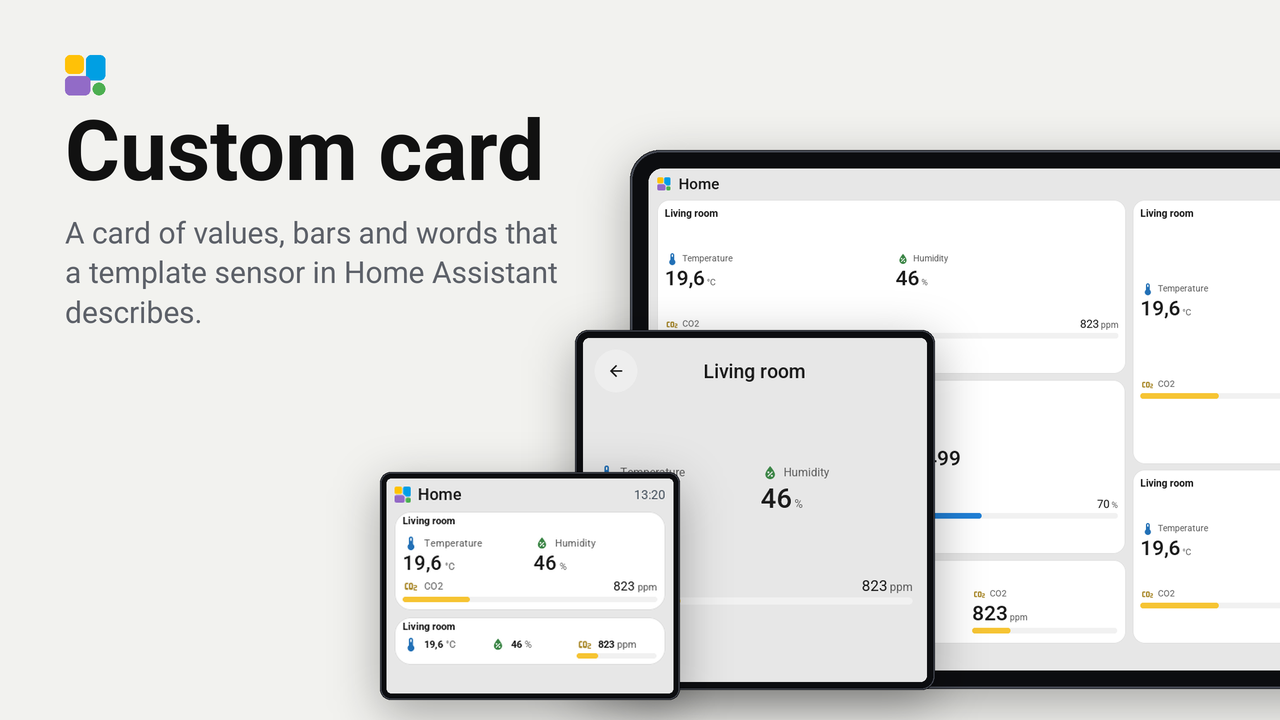
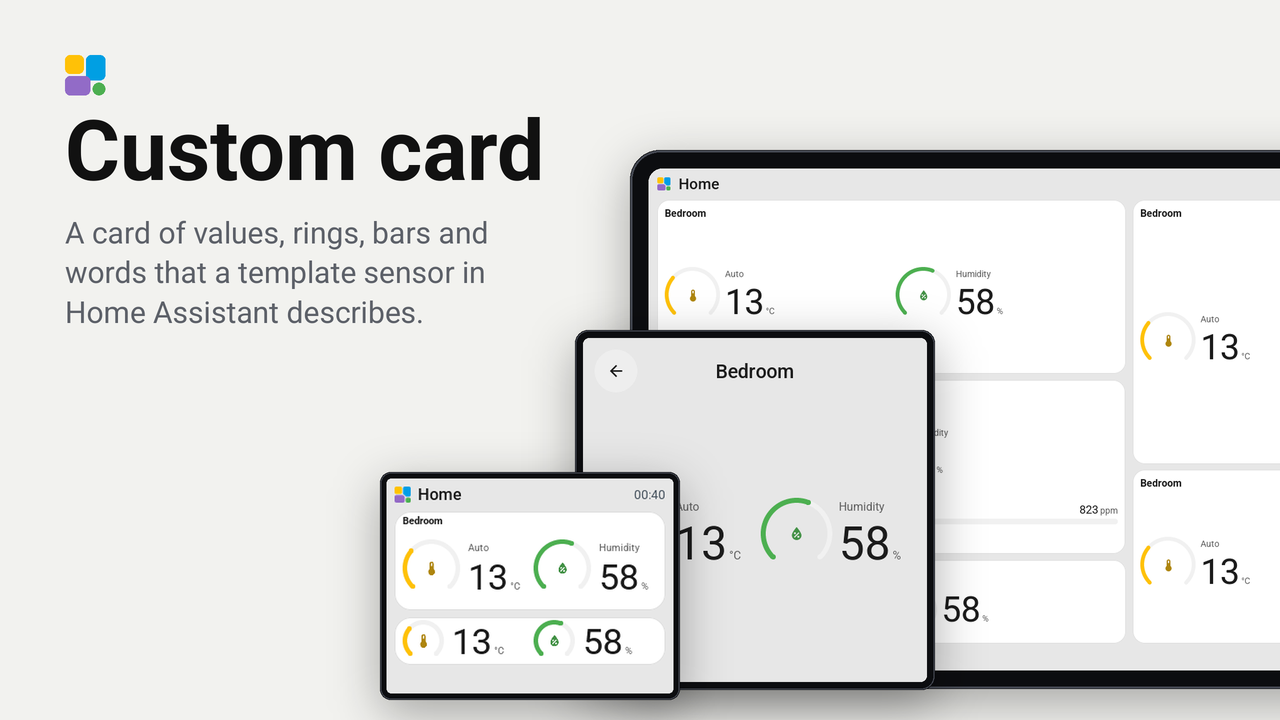
0.6.0: a new part, arc: a value with a ring before it, filled from its lowest to its highest value

diff --git a/components/custom_card/custom_card.cpp b/components/custom_card/custom_card.cpp
@@ -19,10 +19,11 @@ namespace ui = tessera::ui;
 //
 //   value|<value>|<unit>|<label>|<colour>|<icon>
 //   bar|<value>|<unit>|<label>|<colour>|<icon>|<min>|<max>
+//   arc|<value>|<unit>|<label>|<colour>|<icon>|<min>|<max>
 //   text|<words>|||<colour>|<icon>
 //
 // Fields at the end may be left out. A colour is one of the key colours of theme.h (red, orange, yellow, green, mint,
-// blue, purple, pink, gray): it paints the part's icon (a dot where it has none) and its bar, never its words. The
+// blue, purple, pink, gray): it paints the part's icon (a dot where it has none), its bar and its arc, never its words. The
 // colours that mean something are Tessera's tones (plugin API 0.9), readable on the card in both looks: green is GOOD,
 // yellow and orange BUSY, red ALERT, blue ACCENT; the others keep their key colour. An icon is a name of Tessera's set
 // (icons.h).
@@ -63,7 +64,9 @@ static uint32_t icon_colour(uint32_t colour) { return readable(theme::icon(colou
 static constexpr int MAX_PARTS = 8;
 static constexpr int MAX_IN_ROW = 4;
 
-enum class Kind : uint8_t { VALUE, BAR, TEXT };
+// ARC: a value with a ring open at the bottom before it (three quarters of a circle), filled from min to max, the
+// part's icon in its middle.
+enum class Kind : uint8_t { VALUE, BAR, ARC, TEXT };
 
 struct Part {
   Kind kind = Kind::VALUE;
@@ -118,6 +121,7 @@ static bool parse(const std::string &line, Part *part) {
   auto at = [&](size_t i) { return i < f.size() ? f[i] : std::string(); };
   if (f[0] == "value") part->kind = Kind::VALUE;
   else if (f[0] == "bar") part->kind = Kind::BAR;
+  else if (f[0] == "arc") part->kind = Kind::ARC;
   else if (f[0] == "text") part->kind = Kind::TEXT;
   else return false;
   part->value = at(1);
@@ -130,6 +134,13 @@ static bool parse(const std::string &line, Part *part) {
   if (number_of(at(6), &n)) part->min = n;
   if (number_of(at(7), &n)) part->max = n;
   return true;
+}
+
+// How much of a bar or an arc is filled, 0 to 1: nothing for a value that is no number.
+static float share_of(const Part &part) {
+  float value;
+  if (!number_of(part.value, &value) || part.max <= part.min) return 0;
+  return std::min(1.0f, std::max(0.0f, (value - part.min) / (part.max - part.min)));
 }
 
 // ---- The tile ----
@@ -164,6 +175,18 @@ class Drawing {
       s.unit = ui::label(parent, Font::BODY, theme::MUTED);
       s.track = ui::block(parent, theme::TRACK);
       s.fill = ui::block(s.track, theme::ACCENT);
+      // A ring that only shows: no knob, no touch (a tap is the tile's), open at the bottom, a tenth of a percent fine.
+      s.arc = lv_arc_create(parent);
+      lv_obj_remove_style(s.arc, nullptr, LV_PART_KNOB);
+      lv_obj_remove_flag(s.arc, LV_OBJ_FLAG_CLICKABLE);
+      lv_obj_set_style_pad_all(s.arc, 0, 0);
+      lv_obj_set_style_bg_opa(s.arc, LV_OPA_TRANSP, 0);
+      lv_obj_set_style_border_width(s.arc, 0, 0);
+      lv_obj_set_style_arc_rounded(s.arc, true, LV_PART_MAIN);
+      lv_obj_set_style_arc_rounded(s.arc, true, LV_PART_INDICATOR);
+      lv_arc_set_rotation(s.arc, 135);
+      lv_arc_set_bg_angles(s.arc, 0, 270);
+      lv_arc_set_range(s.arc, 0, 1000);
     }
     hide_all();
   }
@@ -219,26 +242,30 @@ class Drawing {
       ui::set_color(s.unit, theme::MUTED);
       ui::set_color(s.value, theme::INK);
       lv_obj_set_style_bg_color(s.track, ui::color(theme::TRACK), 0);
+      lv_obj_set_style_arc_color(s.arc, ui::color(theme::TRACK), LV_PART_MAIN);
       if (tone != Tone::NORMAL) {
         // The tone's colour; on the icon darker still where it would not read on the card (BUSY's amber on white).
         const uint32_t toned = lv_color_to_u32(ui::tone_color(tone, theme::MUTED));  // 0xFFRRGGBB: the alpha byte is ignored
         lv_obj_set_style_text_color(s.icon, theme::rgb(readable(toned)), 0);
         ui::set_fill(s.dot, tone, theme::ACCENT);
         ui::set_fill(s.fill, tone, theme::ACCENT);
+        lv_obj_set_style_arc_color(s.arc, ui::tone_color(tone, theme::ACCENT), LV_PART_INDICATOR);
       } else if (own) {
         lv_obj_set_style_text_color(s.icon, theme::rgb(icon_colour(own)), 0);
         lv_obj_set_style_bg_color(s.dot, theme::rgb(own), 0);
         lv_obj_set_style_bg_color(s.fill, theme::rgb(own), 0);
+        lv_obj_set_style_arc_color(s.arc, theme::rgb(own), LV_PART_INDICATOR);
       } else {
         ui::set_color(s.icon, theme::MUTED);
         lv_obj_set_style_bg_color(s.fill, ui::color(theme::ACCENT), 0);
+        lv_obj_set_style_arc_color(s.arc, ui::color(theme::ACCENT), LV_PART_INDICATOR);
       }
     }
   }
 
  private:
   struct Slot {
-    lv_obj_t *icon{}, *dot{}, *label{}, *value{}, *unit{}, *track{}, *fill{};
+    lv_obj_t *icon{}, *dot{}, *label{}, *value{}, *unit{}, *track{}, *fill{}, *arc{};
   };
   // Parts side by side in columns, or a bar or a text alone across the width (`across`: its words left, its value
   // right, the bar under them).
@@ -256,14 +283,15 @@ class Drawing {
     show(head_, false);
     show(note_, false);
     for (Slot &s : slots_)
-      for (lv_obj_t *obj : {s.icon, s.dot, s.label, s.value, s.unit, s.track}) show(obj, false);
+      for (lv_obj_t *obj : {s.icon, s.dot, s.label, s.value, s.unit, s.track, s.arc}) show(obj, false);
   }
 
-  // Stacked: values that follow each other side by side (at most `in_row`), a bar and a text alone across the width.
+  // Stacked: values and arcs that follow each other side by side (at most `in_row`), a bar and a text alone across the
+  // width.
   std::vector<Line> stacked(int in_row = MAX_IN_ROW) const {
     std::vector<Line> out;
     for (int i = 0; i < (int) parts_.size(); ++i) {
-      const bool value = parts_[i].kind == Kind::VALUE;
+      const bool value = parts_[i].kind == Kind::VALUE || parts_[i].kind == Kind::ARC;
       if (value && !out.empty() && !out.back().across && out.back().count < in_row)
         ++out.back().count;
       else
@@ -307,6 +335,13 @@ class Drawing {
   int gap() const { return ui::px(ui::large() ? 8 : 4); }
   int column_gap() const { return ui::px(ui::large() ? 16 : 8); }
   int column_width(int count) const { return (width_ - (count - 1) * column_gap()) / count; }
+  int arc_thickness() const { return ui::px(ui::large() ? 7 : 5); }
+  // An arc is as tall as the words and the value beside it, and never smaller than its icon inside the ring.
+  int arc_size(int text_h) const {
+    return std::max(text_h, ui::line_height(Font::ICON_SMALL) + 2 * (arc_thickness() + ui::px(4)));
+  }
+  // The words and the value beside an arc, at its right.
+  int arc_text_x(int d) const { return d + ui::px(8); }
 
   // A part's mark: its icon, or a dot in its colour where it has no icon, or nothing.
   bool has_mark(const Part &part) const { return part.icon || part.colour; }
@@ -338,6 +373,7 @@ class Drawing {
       switch (parts_[i].kind) {
         case Kind::VALUE: h = std::max(h, words + ui::line_height(face)); break;
         case Kind::BAR: h = std::max(h, words + ui::line_height(face) + ui::px(4) + bar_thickness()); break;
+        case Kind::ARC: h = std::max(h, arc_size(words + ui::line_height(face))); break;
         default: h = std::max(h, text_row(parts_[i], face));
       }
     }
@@ -355,6 +391,14 @@ class Drawing {
           // A text beside other parts (a flat tile) has its words whole where another arrangement allows it.
           if (whole_texts_ && line.count > 1 && mark_width(part, Font::ICON_SMALL) + (has_mark(part) ? ui::px(6) : 0) +
                                         ui::text_width(part.value, words_face(face)) > column)
+            return false;
+          continue;
+        }
+        if (part.kind == Kind::ARC) {
+          // Its mark is in the ring: the ring, then the value.
+          const int words = labels && has_words(line) ? words_row() : 0;
+          if (arc_text_x(arc_size(words + ui::line_height(face))) + ui::text_width(shape(part.value), face) +
+                  unit_width(part) > column)
             return false;
           continue;
         }
@@ -387,7 +431,13 @@ class Drawing {
       show(note_, true);
       return;
     }
-    const std::vector<Line> arrangements[] = {side_by_side(), stacked()};
+    // An arc takes room beside its value: where arcs are, the values two to a row and one also compete for the largest
+    // face, so a narrow tile stacks its rings instead of shrinking them all into one row.
+    std::vector<std::vector<Line>> arrangements = {side_by_side(), stacked()};
+    if (std::any_of(parts_.begin(), parts_.end(), [](const Part &part) { return part.kind == Kind::ARC; })) {
+      arrangements.push_back(stacked(2));
+      arrangements.push_back(stacked(1));
+    }
     const bool named = !shown_name_.empty();
     struct Try { bool head, labels; };
     Font face = Font::BODY;
@@ -520,6 +570,18 @@ class Drawing {
     }
   }
 
+  // An arc `d` wide at (x, y), filled from min to max, the part's icon in the middle of the ring.
+  void place_arc(Slot &s, const Part &part, int x, int y, int d) {
+    const int thick = arc_thickness();
+    lv_obj_set_size(s.arc, d, d);
+    lv_obj_set_pos(s.arc, x, y);
+    lv_obj_set_style_arc_width(s.arc, thick, LV_PART_MAIN);
+    lv_obj_set_style_arc_width(s.arc, thick, LV_PART_INDICATOR);
+    lv_arc_set_value(s.arc, (int32_t) std::lround(share_of(part) * 1000));
+    show(s.arc, true);
+    if (part.icon) place_mark(s, part, x + (d - mark_width(part, Font::ICON_SMALL)) / 2, y, d, Font::ICON_SMALL);
+  }
+
   // A bar `width` wide at (x, y), filled from min to max.
   void place_bar(Slot &s, const Part &part, int x, int y, int width) {
     const int thick = bar_thickness();
@@ -528,9 +590,7 @@ class Drawing {
     lv_obj_set_style_radius(s.track, thick / 2, 0);
     lv_obj_set_style_radius(s.fill, thick / 2, 0);
     show(s.track, true);
-    float value, share = 0;
-    if (number_of(part.value, &value) && part.max > part.min)
-      share = std::min(1.0f, std::max(0.0f, (value - part.min) / (part.max - part.min)));
+    const float share = share_of(part);
     const int filled = share > 0 ? std::max(thick, (int) std::lround(share * width)) : 0;
     lv_obj_set_size(s.fill, filled, thick);
     lv_obj_set_pos(s.fill, 0, 0);
@@ -564,6 +624,23 @@ class Drawing {
       if (part.kind == Kind::TEXT) {
         const int th = text_row(part, face);
         place_words(s, part, x, y + (h - th) / 2, th, column, words_face(face), s.value, part.value);
+        continue;
+      }
+      if (part.kind == Kind::ARC) {
+        // The ring at the left, its words over the value at its right, both centred on the line.
+        const int text_h = (words ? words_row() : 0) + ui::line_height(face);
+        const int d = arc_size(text_h);
+        place_arc(s, part, x, y + (h - d) / 2, d);
+        const int tx = x + arc_text_x(d), ty = y + (h - text_h) / 2;
+        if (words && !part.label.empty()) {
+          const int lh = ui::line_height(Font::BODY);
+          ui::set_font(s.label, Font::BODY);
+          ui::set_text(s.label, part.label);
+          lv_obj_set_size(s.label, std::max(1, x + column - tx), lh);
+          lv_obj_set_pos(s.label, tx, ty + (words_row() - lh) / 2);
+          show(s.label, true);
+        }
+        place_value(s, part, face, tx, ty + (words ? words_row() : 0), x + column - tx);
         continue;
       }
       int vy = y;

diff --git a/README.de.md b/README.de.md
@@ -45,16 +45,19 @@ template:
 ## Die Teile
 
 Jeder Teil ist ein Text, die Felder getrennt durch `|`, in dieser Reihenfolge: die Art, der Wert, die Einheit, das
-Label, die Farbe, das Icon und bei einem Balken sein kleinster und größter Wert. Felder am Ende dürfen fehlen.
+Label, die Farbe, das Icon und bei einem Balken oder Ring sein kleinster und größter Wert. Felder am Ende dürfen fehlen.
 
 - `value`: eine Zahl mit Einheit, etwa `value|21,4|°C|Temperatur||thermometer`.
 - `bar`: eine Zahl mit einem Balken darunter, vom kleinsten bis zum größten Wert (ohne Angabe 0 und 100), etwa
   `bar|820|ppm|CO2|yellow||400|2000`.
+- `arc`: eine Zahl mit einem Ring davor, drei Viertel eines Kreises, unten offen, vom kleinsten bis zum größten Wert
+  gefüllt (ohne Angabe 0 und 100), mit dem Icon in der Mitte, etwa `arc|13|°C|Auto|orange|thermometer|5|30`. Das Label
+  steht rechts über der Zahl. Ein Ring steht neben Werten und anderen Ringen, wie ein Wert.
 - `text`: eine Textzeile, etwa `text|Tür offen||||door-open`.
 
 Eine Farbe ist `red`, `orange`, `yellow`, `green`, `mint`, `blue`, `purple`, `pink` oder `gray`. Wie auf Tesseras
-eigenen Tiles markiert sie einen Teil und färbt nie seine Worte: Sie färbt das Icon (einen Punkt, wo der Teil keins hat)
-und den Balken. Die Farben, die sagen, wie gut ein Wert ist, sind Tesseras eigene, hell und dunkel lesbar: `green`
+eigenen Tiles markiert sie einen Teil und färbt nie seine Worte: Sie färbt das Icon (einen Punkt, wo der Teil keins hat),
+den Balken und den Ring. Die Farben, die sagen, wie gut ein Wert ist, sind Tesseras eigene, hell und dunkel lesbar: `green`
 gut, `yellow` und `orange` mäßig, `red` schlecht, `blue` die Akzentfarbe. Ein Icon ist ein Name aus der Icon-Auswahl des
 Editors, mit oder ohne `mdi:`.
 

diff --git a/README.md b/README.md
@@ -43,15 +43,19 @@ template:
 ## The parts
 
 Each part is one text, its fields split by `|`, in this order: the kind, the value, the unit, the label, the colour,
-the icon, and for a bar its lowest and highest value. Fields at the end may be left out.
+the icon, and for a bar or an arc its lowest and highest value. Fields at the end may be left out.
 
 - `value`: a number with its unit, such as `value|21.4|°C|Temperature||thermometer`.
 - `bar`: a number with a bar under it, from its lowest to its highest value (0 and 100 when left out), such as
   `bar|820|ppm|CO2|yellow||400|2000`.
+- `arc`: a number with a ring before it, three quarters of a circle open at the bottom, filled from its lowest to its
+  highest value (0 and 100 when left out) with its icon in the middle, such as
+  `arc|13|°C|Auto|orange|thermometer|5|30`. Its label stands above the number at its right. It stands beside values
+  and other arcs, as a value does.
 - `text`: a line of words, such as `text|Door open||||door-open`.
 
 A colour is `red`, `orange`, `yellow`, `green`, `mint`, `blue`, `purple`, `pink` or `gray`. As on Tessera's own tiles it
-marks a part and never paints its words: it colours the icon (a dot where the part has none) and the bar. The colours
+marks a part and never paints its words: it colours the icon (a dot where the part has none), the bar and the arc. The colours
 that say how good a level is are Tessera's own, readable in light and dark: `green` good, `yellow` and `orange`
 moderate, `red` bad, `blue` the accent. An icon is a name from the editor's icon picker, with or without `mdi:`.
 

diff --git a/CHANGELOG.de.md b/CHANGELOG.de.md
@@ -1,5 +1,11 @@
 # Änderungen
 
+## 0.6.0 - 2026-10-17
+- Ein neuer Teil, `arc`: ein Wert mit einem Ring davor, drei Viertel eines Kreises, unten offen, vom kleinsten bis zum
+  größten Wert in der Farbe des Teils gefüllt, mit seinem Icon in der Mitte. Geschrieben wie ein Balken:
+  `arc|13|°C|Auto|orange|thermometer|5|30`.
+- Jedes Tile der Karte kostet den Bildschirm etwas mehr Speicher für die Ringe.
+
 ## 0.5.0 - 2026-10-14
 - Große Zahlen auf großen Tiles: Wo sie passen und alle Werte Zahlen sind, bekommen die Werte die großen Ziffern
   der Klimakarte von Tessera. Ein Wert mit einem Wort darin behält seine bisherige Schrift.

diff --git a/CHANGELOG.md b/CHANGELOG.md
@@ -1,5 +1,11 @@
 # Changelog
 
+## 0.6.0 - 2026-10-17
+- A new part, `arc`: a value with a ring before it, three quarters of a circle open at the bottom, filled from its
+  lowest to its highest value in the part's colour, with its icon in the middle. Written as a bar:
+  `arc|13|°C|Auto|orange|thermometer|5|30`.
+- Each tile of the card costs the screen a little more memory for the rings.
+
 ## 0.5.0 - 2026-10-14
 - Large numbers on a large tile: where they fit and every value is a number, the values take the large digits of
   Tessera's climate card. A value with a word in it keeps the face it had.
